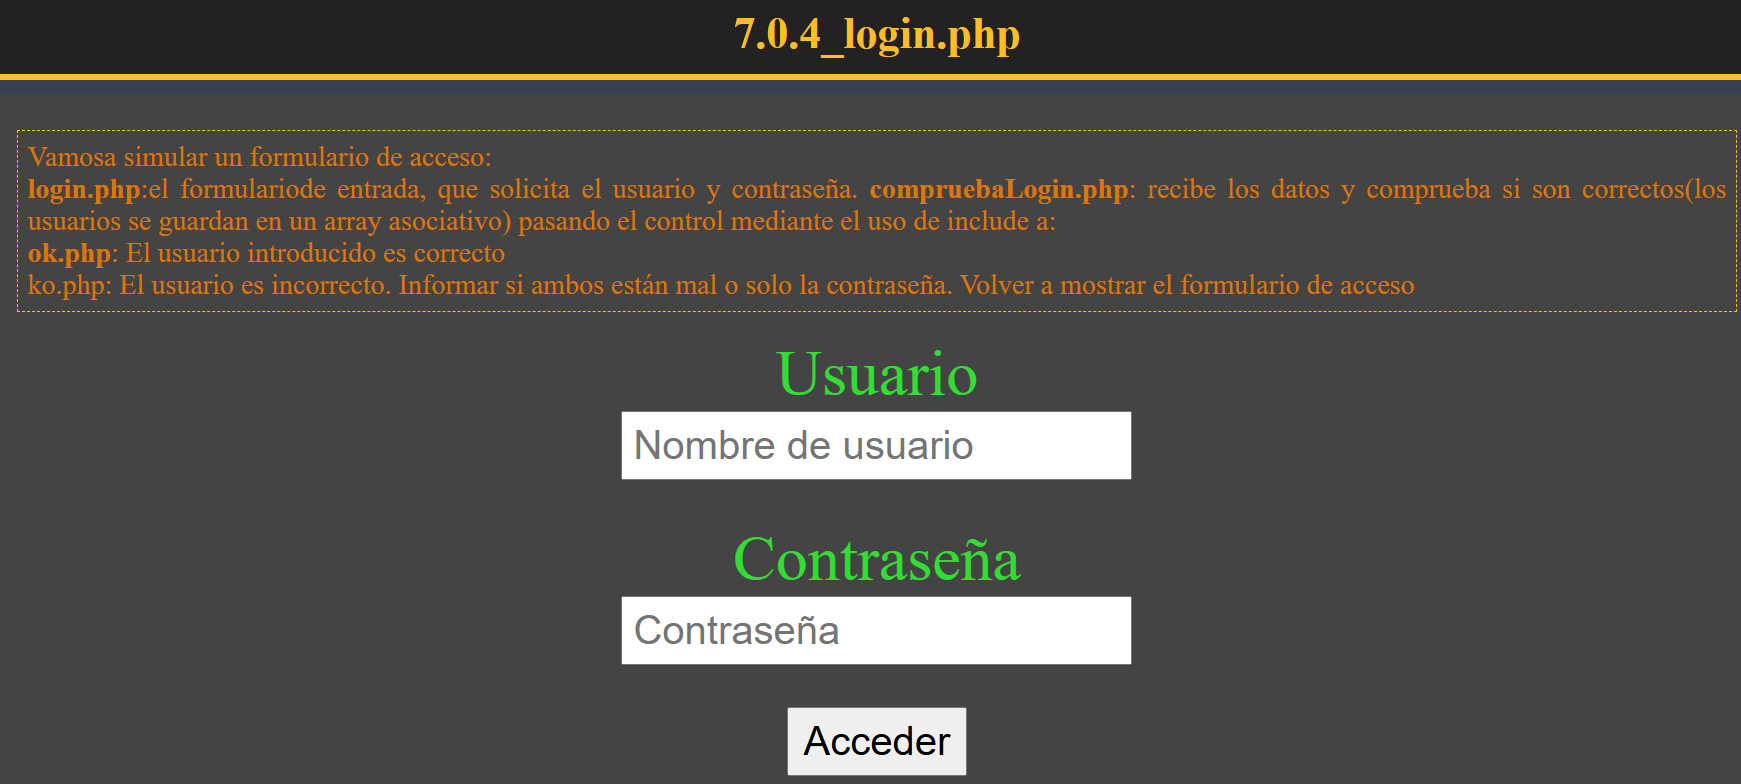
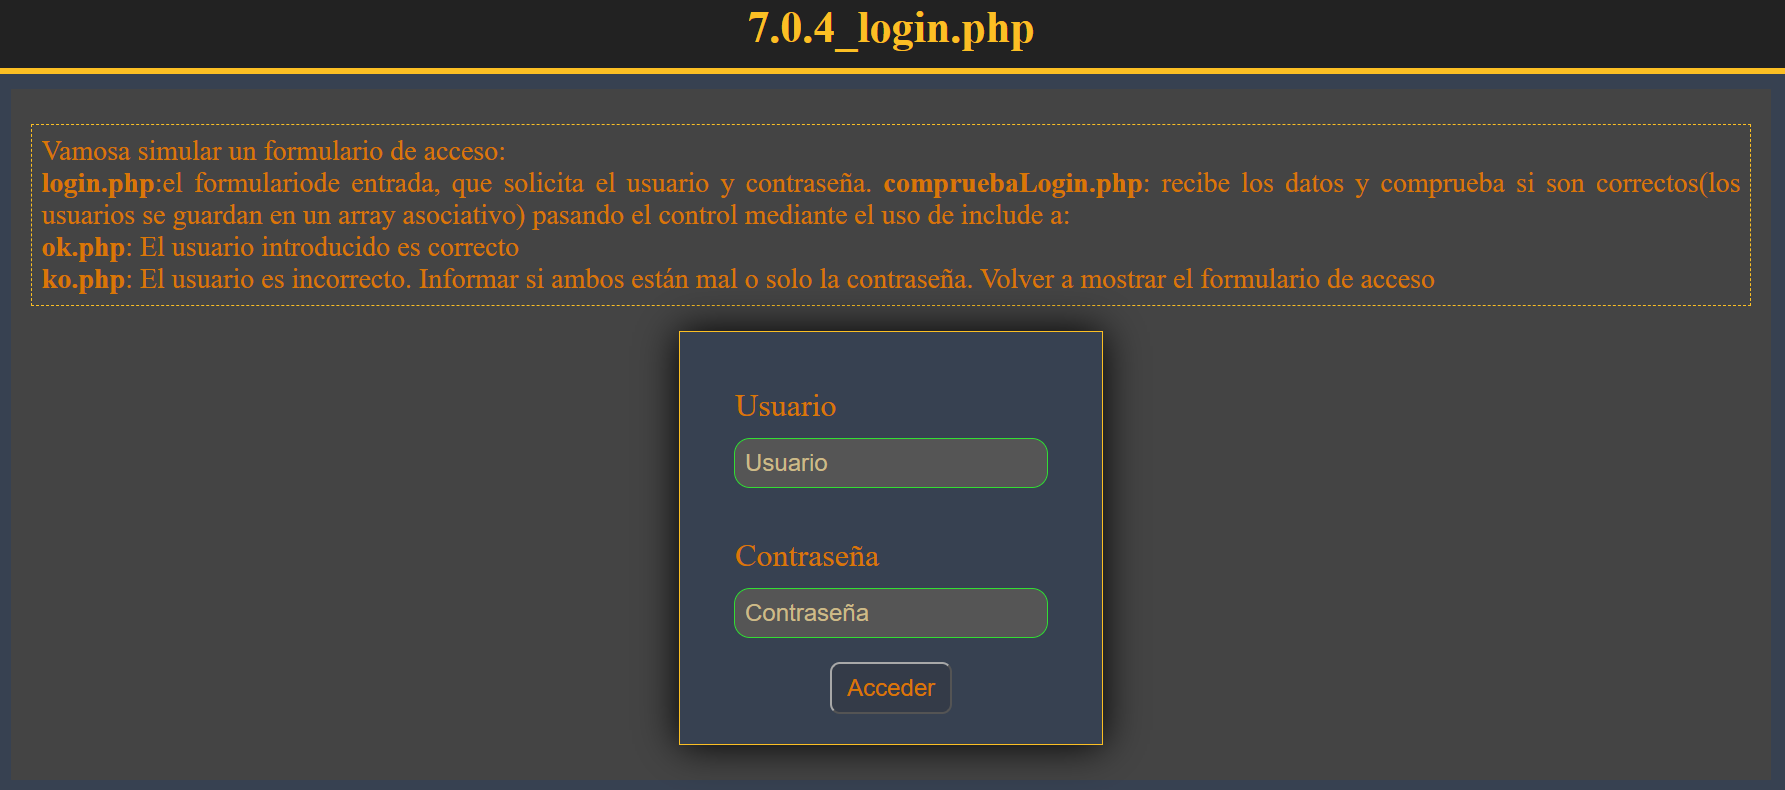
some style fixes

Changed region(s): [[0.0, 0.1837, 0.9925, 0.4286], [0.3412, 0.4592, 0.6513, 1.0], [0.0, 0.0, 1.0, 0.1224]]

diff --git a/styles/styles.css b/styles/styles.css
@@ -66,3 +66,61 @@ td {
     border: 2px solid var(--main-color);
     padding: 10px;
 }
+
+.simple-form {
+    border: 1px solid var(--accent-color);
+    margin: 0 auto;
+    padding: 30px;
+    gap: 20px;
+    width: fit-content;
+    background-color: #374151;
+    box-shadow: 0 0 40px 0 black;
+}
+
+.simple-label {
+    color: var(--main-color);
+    font-size: 2rem;
+}
+
+.simple-form__element {
+    display: flex;
+    flex-direction: column;
+    gap: 15px;    
+    padding: 25px;
+}
+
+.simple-input {
+    font-size: 1.5rem;
+    padding: 10px;
+    border-radius: 15px;
+    outline: 1px solid var(--console-color);
+    border: none;    
+    background-color: #555;
+}
+
+.simple-input:focus {
+    outline: 2px solid var(--accent-color);
+}
+
+.simple-input::placeholder {
+    color: #cb8;
+}
+
+.simple-form__nav {
+    display: flex;
+    justify-content: center;
+    align-items: center;
+}
+
+.simple-button {
+    font-size: 1.5rem;
+    padding: 10px 15px;
+    background-color: rgb(52, 59, 72);
+    color: var(--main-color);
+    border-radius: 10px;
+}
+
+.simple-button:hover {
+    font-weight: bold;
+    outline: 2px solid var(--accent-color);
+}

diff --git a/tema_2/7.0.4_Login.php b/tema_2/7.0.4_Login.php
@@ -10,16 +10,23 @@ printStatement('
 <p><strong>ok.php</strong>: El usuario introducido es correcto</p>
 <p><strong>ko.php</strong>: El usuario es incorrecto. Informar si ambos están mal o solo la contraseña. Volver a mostrar el formulario de acceso</p>
 ');
+?>
 
-echo 
-'<form action="7.0.4_CompruebaLogin.php" method="post" style="margin: 0 auto; width: fit-content;">
-  <label for="input-name" style="font-size: 4rem; display: block; text-align: center;">Usuario</label>
-  <input name="user" id=input-name placeholder="Nombre de usuario" style="font-size: 2.5rem; padding: 10px" required><br><br>
-  <label for="input-password" style="font-size: 4rem; display: block; text-align: center;">Contraseña</label>
-  <input type="password" name="password" id=input-password placeholder="Contraseña" style="font-size: 2.5rem; padding: 10px;" required><br><br>
-  <button type="submit" style="font-size: 2.5rem; padding: 10px 15px; display: block; margin: 0 auto;">Acceder</button>
-</form>';
+<form action="7.0.4_CompruebaLogin.php" method="post" class="simple-form">
+  <div class="simple-form__element">
+    <label for="input-name" class="simple-label">Usuario</label>
+    <input name="user" class="simple-input" placeholder="Usuario" required>
+  </div>
+  <div class="simple-form__element">
+    <label for="input-password" class="simple-label">Contraseña</label>
+    <input type="password" name="password" id=input-password placeholder="Contraseña" class="simple-input" required>
+  </div>
+  <nav class="simple-form__nav">
+    <button type="submit" class="simple-button">Acceder</button>
+  </nav>
+</form>
 
 
+<?php
 endPage();
 ?>

diff --git a/tema_4/ejercicio_cookies/preferencias.php b/tema_4/ejercicio_cookies/preferencias.php
@@ -3,18 +3,22 @@ require_once('../../templates/page.php');
 
 initPage('Preferencias.php','../../styles/styles.css');
 
-echo '<form action="guarda_prefs.php" method="post" style="margin: 0 auto; width: fit-content;border: 1px solid var(--accent-color); padding: 30px;">
+?>
 
-  <label for="input-name" style="font-size: 2.5rem; display: block; text-align: center;">Usuario</label>
+<form action="guarda_prefs.php" method="post" class="simple-form" >
+  <div class="simple-form__element">
+    <label for="input-name" class="simple-label">Usuario</label>
+    <input name="user" id=input-name placeholder="Nombre de usuario" class="simple-input" required>
+  </div>
+  <div class="simple-form__element">
+    <label for="input-color" class="simple-label">Color favorito</label>
+    <input type="color" name="color" id=input-color value="#FFFFFF">
+  </div>
+  <nav class="simple-form__nav">
+    <button type="submit" class="simple-button">Guardar</button>
+  <nav>
+</form>
 
-  <input name="user" id=input-name placeholder="Nombre de usuario" style="font-size: 2.5rem; padding: 10px" required><br><br>
-
-  <label for="input-color" style="font-size: 2.5rem; display: block; text-align: center;">Color favorito</label>
-
-  <input type="color" name="color" id=input-color value="#FFFFFF" style="display:block; margin: 0 auto; width:100px; height:100px;"><br><br>
-
-  <button type="submit" style="font-size: 2rem; padding: 10px 15px; display: block; margin: 0 auto;">Guardar</button>
-</form>';
-
+<?php
 endPage();
 ?>

diff --git a/tema_4/ejercicio_cookies/index.php b/tema_4/ejercicio_cookies/index.php
@@ -17,8 +17,8 @@ echo drawInitPage('5.0.1_Ejercicio_Cookies', '../../styles/styles.css').drawHead
      ."<article class=\"console\" style=\"background-color: $backgroundColor; color: var(--main-color);\">";
 
 echo "<p style=\"text-align: center;\">$message</p>";
-echo '<br><br><a href="preferencias.php" style="display:block; text-align:center;"><button style="font-size:2rem;">Configurar</button></a><br>';
-echo '<a href="borrar_prefs.php" style="display:block; text-align:center;"><button style="font-size:1.5rem;">Borrar configuración</button></a>';
+echo '<br><br><a href="preferencias.php" style="display:block; text-align:center;"><button class="simple-button";">Configurar</button></a><br>';
+echo '<a href="borrar_prefs.php" style="display:block; text-align:center;"><button class="simple-button">Borrar configuración</button></a>';
 
 endPage();
 ?>
